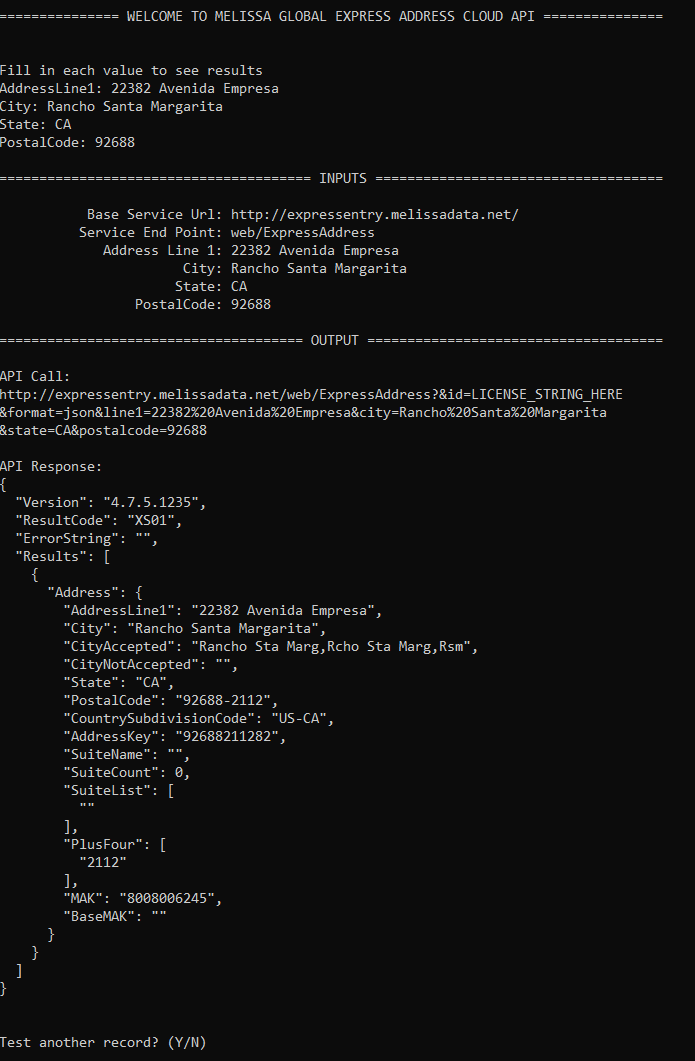
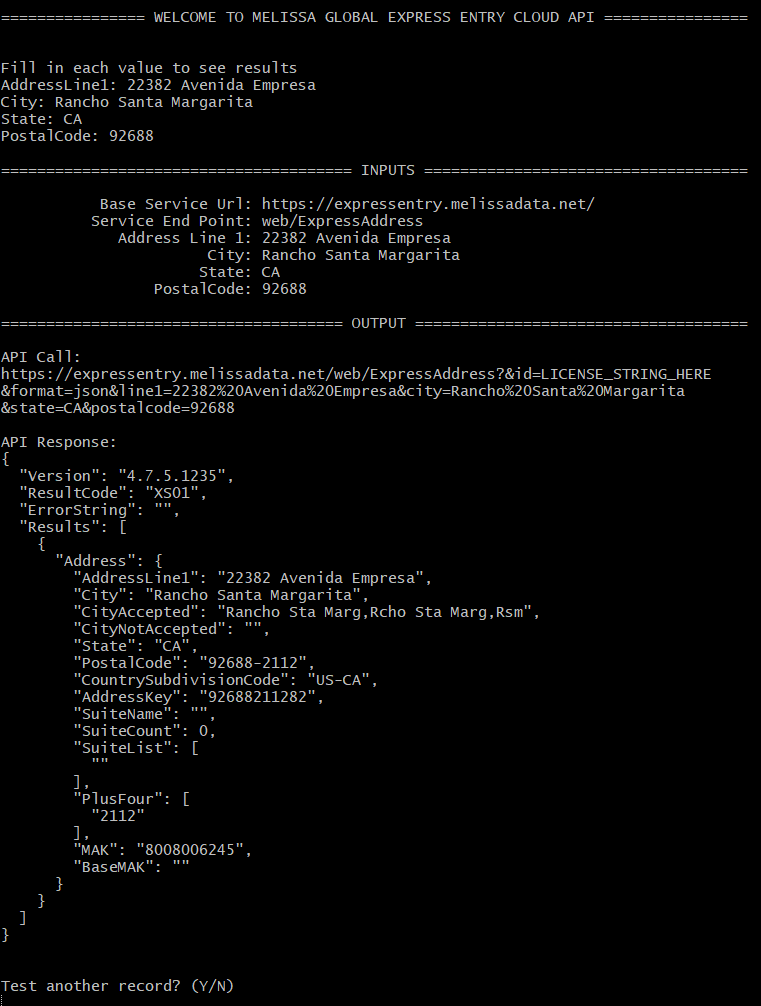
Update Global Express Entry Cloud API

diff --git a/README.md b/README.md
@@ -36,7 +36,7 @@ And return information of the address such as:
 ## Tested Environments
 - Windows 10 64-bit Python 3.10.4, Powershell 5.1
 - Ubuntu Linux 20.04.04 LTS 64-bit Python 3.10.4
-- Global Express Address Cloud API Version 4.7.5.1235
+- Global Express Address Cloud API Version 4.7.6.1237
 
 ## Getting Started
 These instructions will get you a copy of the project up and running on your local machine for development and testing purposes.
